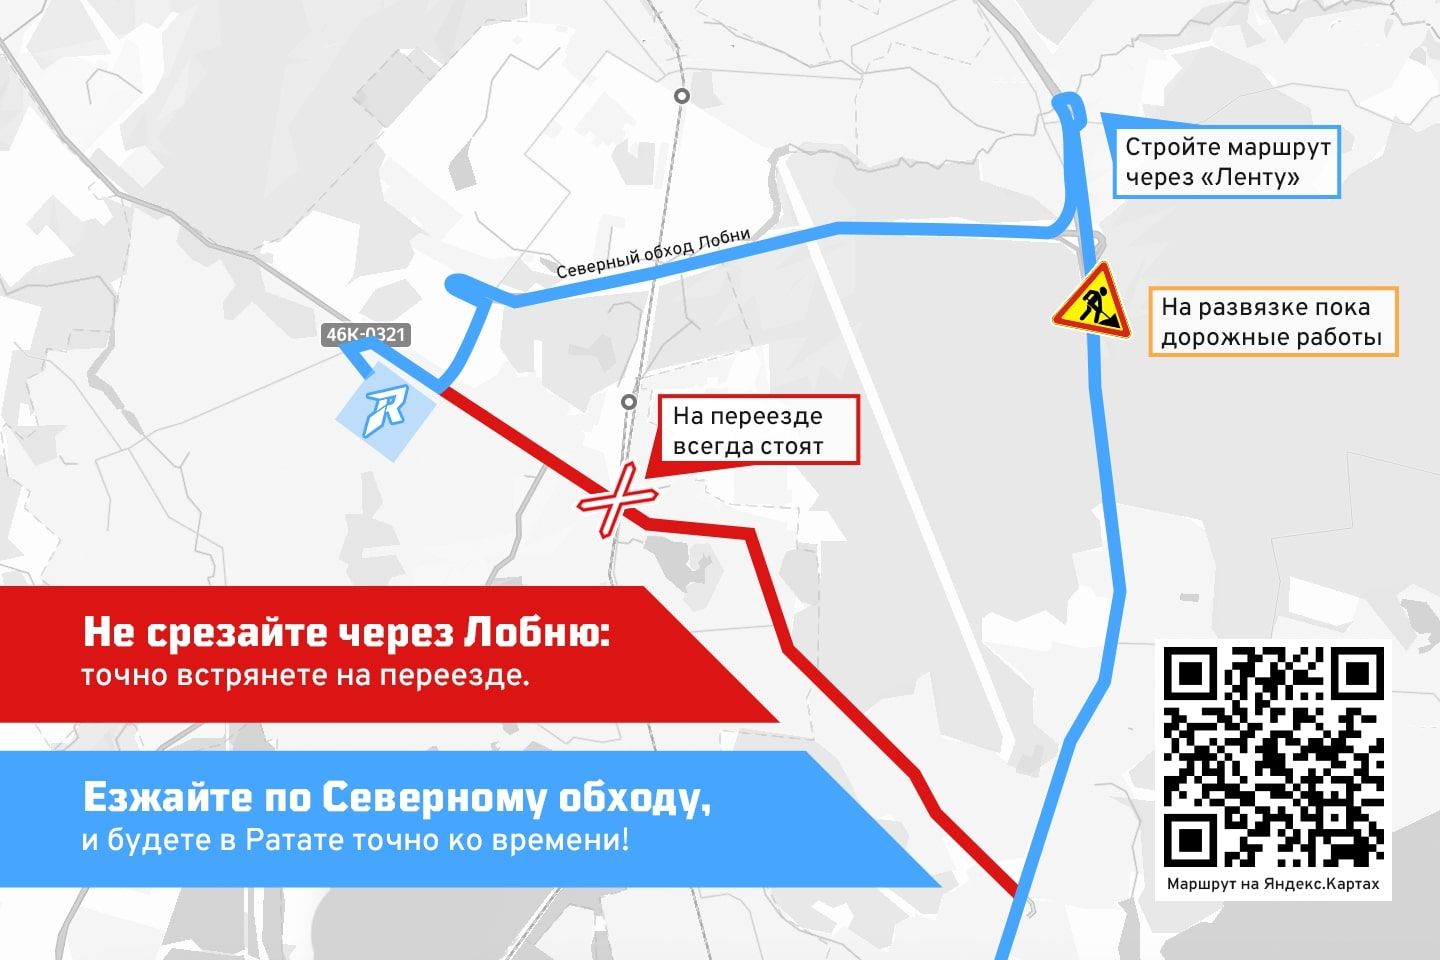
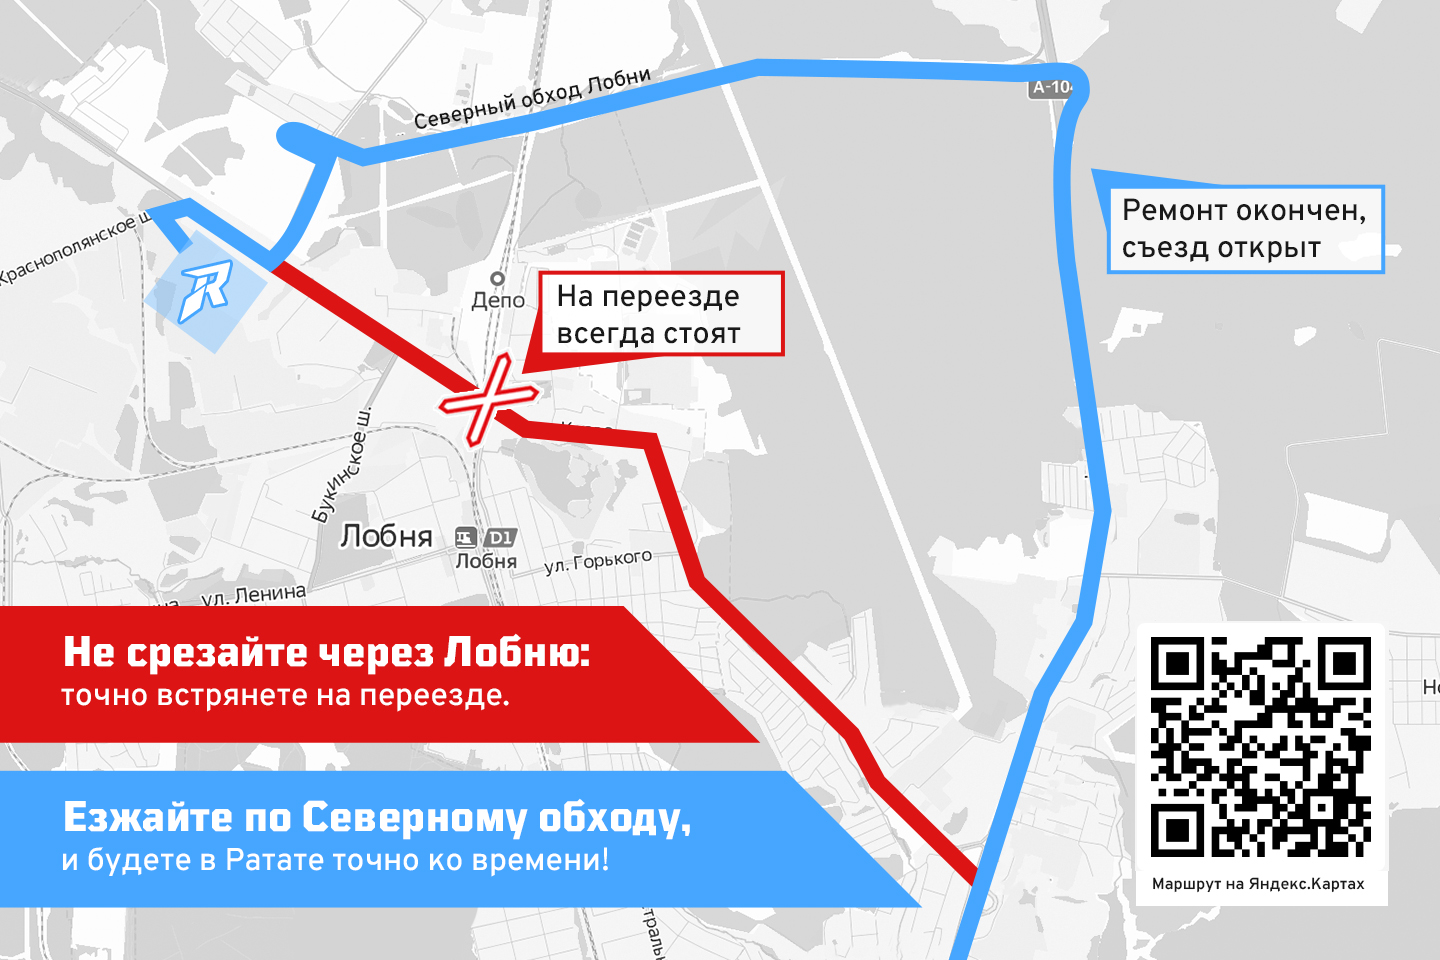
upd navigation and error

diff --git a/src/pages/error-analysis.md b/src/pages/error-analysis.md
@@ -1,9 +1,10 @@
 ---
-title: Разбор ошибок
+title: 'Как объехать лося разбор ошибок ученика'
 layout: ../layouts/PageLayout.astro
+description: 'Прохождение лосиного теста: техника руления и выход из заноса | Уроки безопасного вождения от RATATA Driving School'
 ---
 
-# Разбор ошибок
+# Как объехать лося: разбор ошибок ученика
 
 В августе мы [опубликовали видео](https://t.me/ratataschool/148), в котором ученик не справляется с лосиным тестом.
 
@@ -18,11 +19,11 @@ layout: ../layouts/PageLayout.astro
 - почему именно так произошло,
 - как нужно было действовать.
 
-> **Для удобства используем символы:** 
-✅ — так и надо 
-‼ — косяк, но еще можно исправить 
+> **Для удобства используем символы:**  
+✅ — так и надо  
+‼ — косяк, но еще можно исправить  
 ❌ — пупупу…
-> 
+>
 
 ## ✅ Повернул очень рано
 
@@ -57,9 +58,9 @@ layout: ../layouts/PageLayout.astro
 
 Машина находится слишком близко к препятствию. Водитель не может сделать резкое движение рулем и начинает плавно поворачивать. Автомобиль по затяжной дуге медленно скользит, и заднюю ось начинает заносить влево.
 
-> Центр тяжести сместился. Масса перекинулась на левую сторону, а правые колёса почти повисли в воздухе. Машину закрутило влево.
-> 
-
+>Центр тяжести сместился. Масса перекинулась на левую сторону, а правые колёса почти повисли в воздухе. 
+Машину закрутило влево.  
+  
 ### Как исправить
 
 Это возникло вследствие первой ошибки, где сломалась траектория. Единственный порядок действий, который мог бы помочь:
@@ -76,7 +77,8 @@ layout: ../layouts/PageLayout.astro
 
 **Вместо стабилизации левый занос переходит в правый, и машину закручивает вокруг правого колеса.** Произошел «хлыст».
 
-> В затяжном повороте копилась энергия. Когда водитель начал поворачивать руль влево, машина начала стабилизироваться. Но руль остался повернутым.
+> В затяжном повороте копилась энергия. Когда водитель начал поворачивать руль влево, машина начала стабилизироваться. 
+Но руль остался повернутым.
 > 
 
 Из-за этого:
@@ -133,7 +135,6 @@ layout: ../layouts/PageLayout.astro
 
 > Если тебе понравилась эта статья, подписывайся на ресурсы **RATATA Driving School**. Мы учим водить безопасно и влюбляем в вождение.
 
-[Telegram](https://t.me/ratataschool)
-[Instagram](http://instagram.com/@ratataschool)
-[VK](http://vk.com/ratataschool)
->
+[Telegram](https://t.me/ratataschool)  
+[Instagram](http://instagram.com/@ratataschool)  
+[VK](http://vk.com/ratataschool)  

diff --git a/src/pages/navigation.md b/src/pages/navigation.md
@@ -13,7 +13,7 @@ layout: ../layouts/PageLayout.astro
 
 <img src="/maps.jpg" alt="maps" style="height: auto; width: 100%;"/>
 
-[Маршрут на Яндекс.Картах](https://yandex.ru/maps/-/CDaYeUoV)
+[Маршрут на Яндекс.Картах](https://yandex.ru/maps/-/CDasfAYD)
 
 Первый шлагбаум.
 
